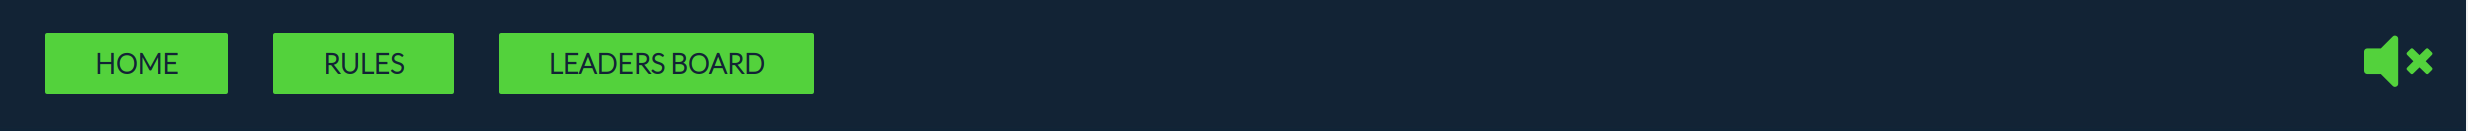
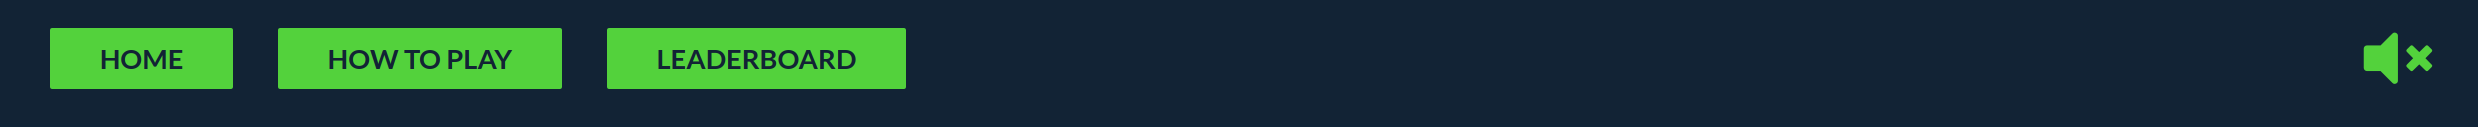
Change screenshots for navbar features section in readme

Changed region(s): [[0.0, 0.2126, 0.3744, 0.7323], [0.936, 0.0, 1.0, 1.0], [0.0312, 0.378, 0.0936, 0.5669]]

diff --git a/README.md b/README.md
@@ -118,7 +118,7 @@ Every scene has a different musical background.
 
 **Navbar**
 
-The web application has navigation buttons to navigate to the Home view, Rules Section, Leadersboard Section and a Sound control button.
+The web application has navigation buttons to navigate to the Home view, How to Play Section, Leadersboard Section and a Sound control button.
 
 ![Navbar desktop](documentation/features/navbar_desktop.png)
 
